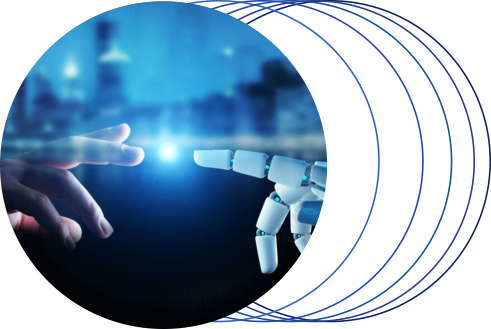
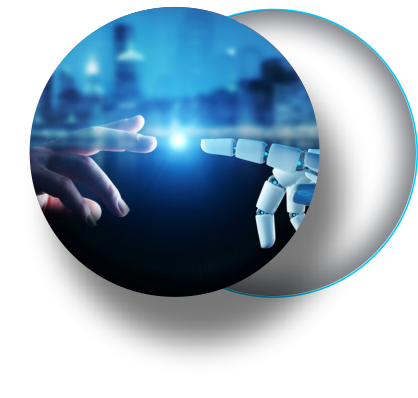
доработка титульных картинок

diff --git a/index.html b/index.html
@@ -54,7 +54,7 @@
             <ul class="menu-item">
                <li><a href="#about" class="menu-link">О нас</a></li>
                <li><a href="#stats" class="menu-link">Показатели</a></li>
-               <li><a href="#0" class="menu-link">Продукты</a></li>
+               <li><a href="#0" class="menu-link">Разработки</a></li>
                <li><a href="#0" class="menu-link">Новости</a></li>
                <li><a href="#0" class="menu-link">Вакансии</a></li>
                <li><a href="#contacts" class="menu-link">Контакты</a></li>
@@ -212,7 +212,7 @@
                     
                 </div>
                 <div class="products">
-                    <div class="products_img_title  revealator-slideleft revealator-once revealator-below">
+                    <div class="products_img_title  revealator-slideright revealator-once revealator-below">
                     </div>
                     <div class="product_background_one">
                     </div>

diff --git a/css/index.css b/css/index.css
@@ -278,7 +278,7 @@ body {
   background-image: url("../img/partners-title.png");
   background-size: contain;
   background-repeat: no-repeat;
-  width: 26%;
+  width: 22%;
   height: 22vw;
   margin-bottom: 0;
   margin-left: 60vw;
@@ -370,7 +370,7 @@ h2 {
   background-image: url("../img/stats-title-img.png");
   background-size: contain;
   background-repeat: no-repeat;
-  width: 27%;
+  width: 22%;
   height: 27vw;
   top: 180vw;
   margin-left: 60vw;
@@ -541,10 +541,10 @@ h2 {
   background-image: url("../img/products-title-img.png");
   background-size: contain;
   background-repeat: no-repeat;
-  width: 25%;
+  width: 23%;
   height: 25vw;
   top: 300vw;
-  margin-left: 67vw;
+  margin-left: 9vw;
 }
 
 .products {
